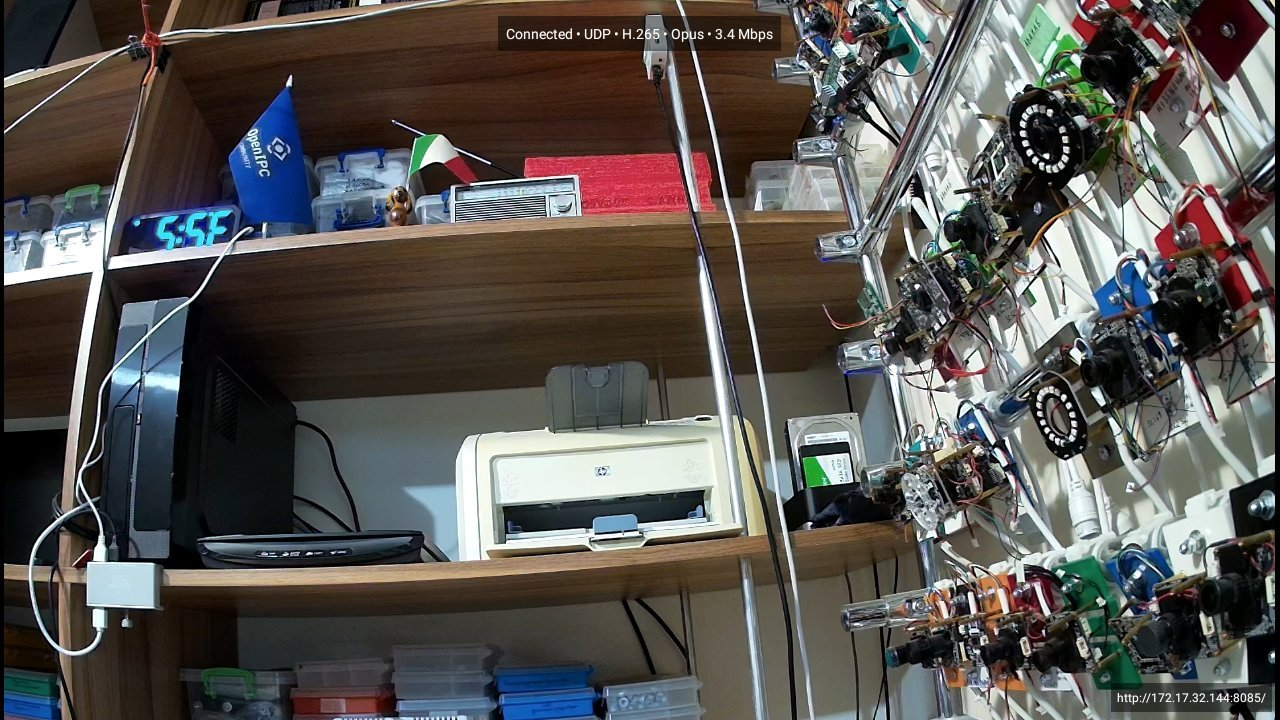
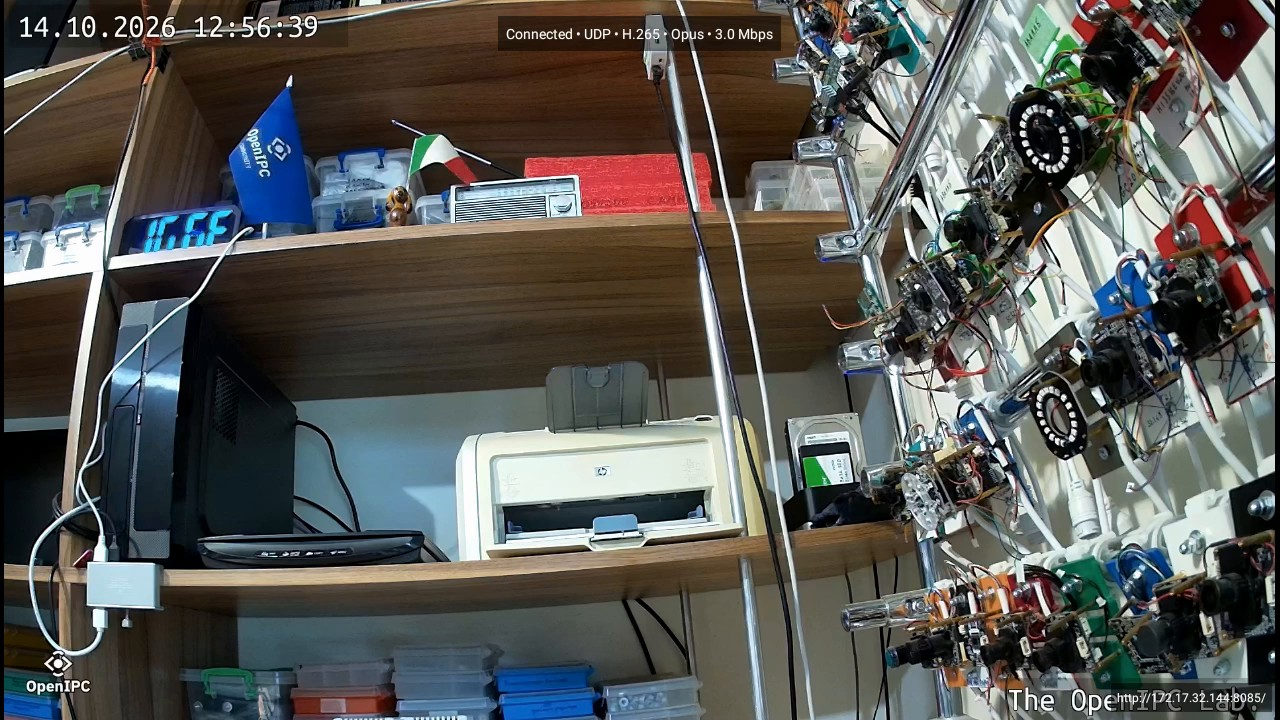
docs: README screenshots retaken in daylight — menu colours, HTTP MJPEG cell, Info switch and damaged note on the debug page (#151)
Slot 2 of the 3×3 layout now plays .133's HTTP MJPEG stream, so the
overview, the debug page and its JSON and log show an MJPEG cell.

Closes #151

diff --git a/LABORATORY.md b/LABORATORY.md
@@ -121,7 +121,7 @@ Only for filling grid cells (Quad 2×2, 3×3) and screenshots; not used in strea
 | Slot | Camera |
 |---|---|
 | 1 | `.247` |
-| 2 | `.133` |
+| 2 | `.133`, HTTP MJPEG `http://<.133>/mjpeg` (#121, #139) |
 | 3 | `.126` |
 | 4 | `.201` |
 | 5 | `.248` |
